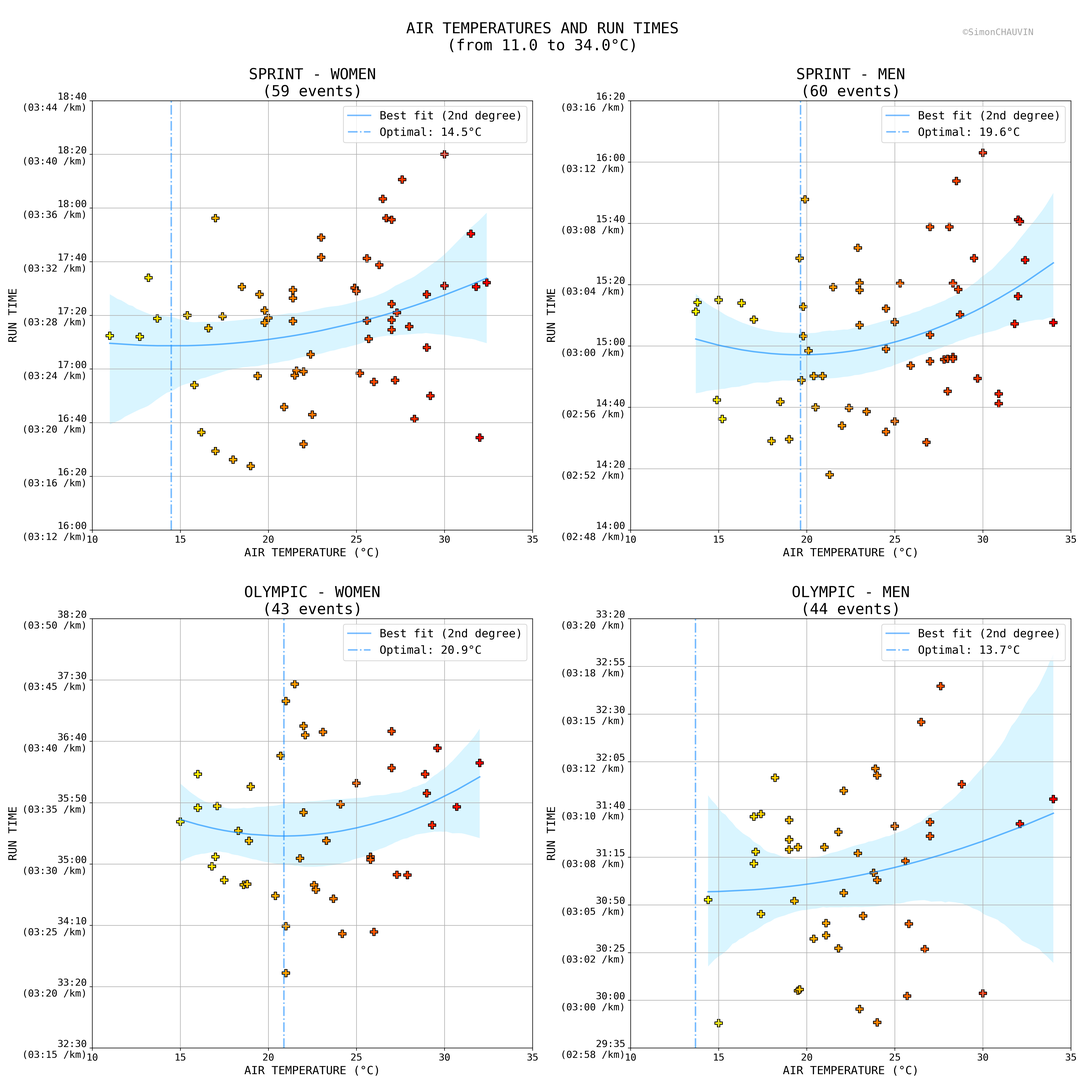
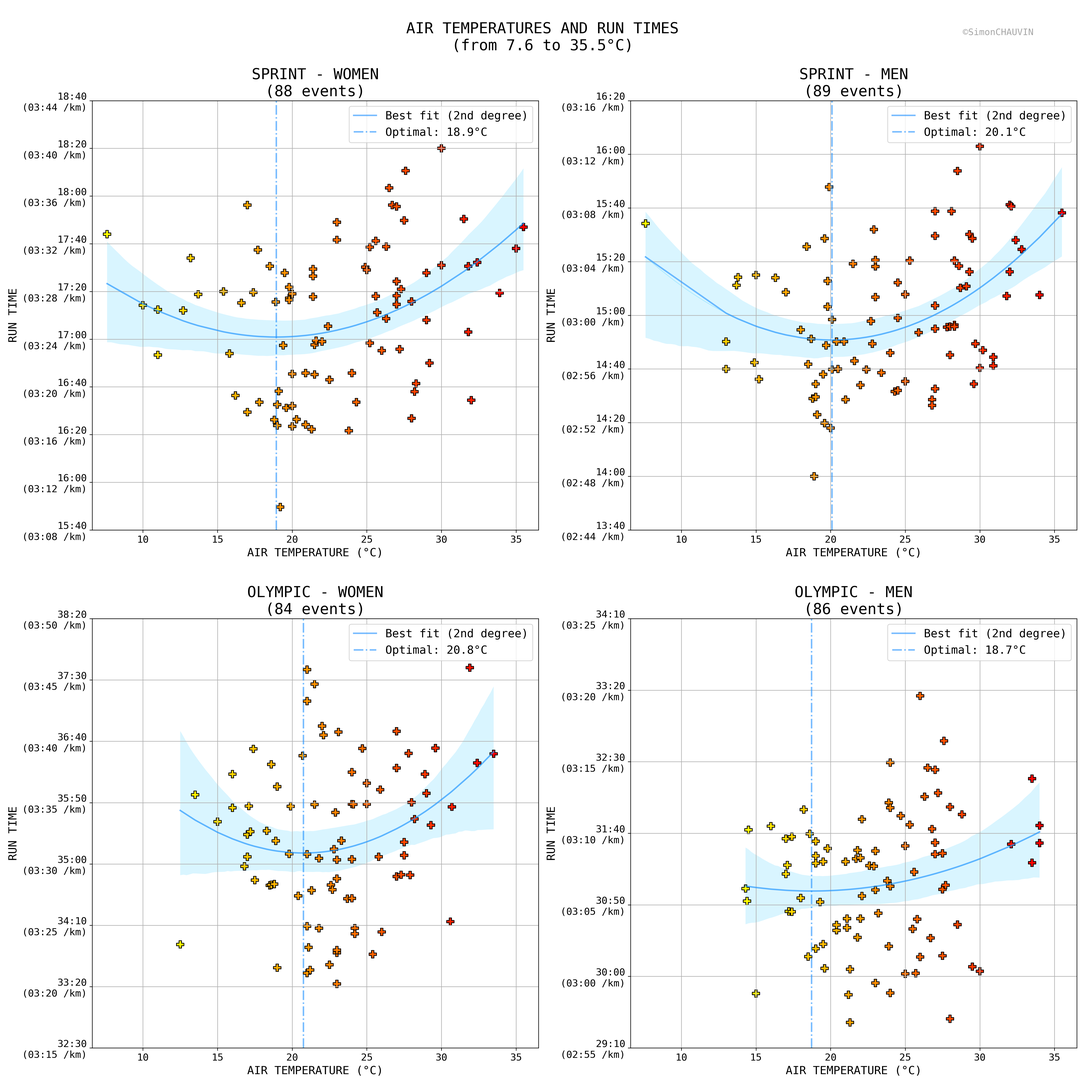
update temperatures

diff --git a/scripts/main_events.py b/scripts/main_events.py
@@ -9,7 +9,7 @@ import seaborn as sns
 from scripts.utils_events import get_events_df
 
 from scripts.utils_events import drop_outliers, seconds_to_h_min_sec
-from utils import data_dir, json_load, res_dir, country_emojis, add_watermark, load_config
+from utils import data_dir, json_load, res_dir, country_emojis, add_watermark, load_config, ignored_dir
 
 
 def process_results_wetsuit(
@@ -1962,29 +1962,55 @@ def process_temperatures(df, distance_categories):
                 df2.sort_values([f"{measure}_temperature_{suffix}"], inplace=True)
 
                 if sport == "swim":
-                    if suffix == "w":
-                        # drop event_id 154591 for women because wetsuit at 21.3 deg
-                        df2 = df2[df2["event_id"] != 154591]
-                        # drop event_id 66637 for women because NO-WETSUIT at 17.4 deg
-                        df2 = df2[df2["event_id"] != 66637]
-                        # drop event_id 45141 for women because NO-WETSUIT at 19.2 deg
-                        df2 = df2[df2["event_id"] != 45141]
-                        # drop event_id 78729 for women because NO-WETSUIT at 19.2 deg
-                        df2 = df2[df2["event_id"] != 78729]
-                    elif suffix == "m":
-                        # drop event_id 66637 for men because NO-WETSUIT at 18.3 deg
-                        df2 = df2[df2["event_id"] != 66637]
-                        # drop event_id 45139 for men because wetsuit at 20.5 deg
-                        df2 = df2[df2["event_id"] != 45139]
-                        # drop event_id 78729 for men because NO-WETSUIT at 19.2 deg
-                        df2 = df2[df2["event_id"] != 78729]
-                        # drop event_id 45141 for men because NO-WETSUIT at 19.5 deg
-                        df2 = df2[df2["event_id"] != 45141]
-                        # drop event_id 54370 for men because NO-WETSUIT at 19.5 deg
-                        df2 = df2[df2["event_id"] != 54370]
+                    # ignore races with hot-wetsuit or cold-swimsuit
+                    conditions_logs_path = ignored_dir / "conditions_inconsistencies.json"
+                    conditions_logs = []
+                    if conditions_logs_path.exists():
+                        conditions_logs = json_load(conditions_logs_path)
 
-                    assert len(df2[(df2[f"wetsuit_{suffix}"]) & (df2[f"water_temperature_{suffix}"] >= 20.0)]) == 0
-                    assert len(df2[(~df2[f"wetsuit_{suffix}"]) & (df2[f"water_temperature_{suffix}"] < 20.0)]) == 0
+                    hot_wetsuit_filter = (df2[f"wetsuit_{suffix}"]) & (df2[f"water_temperature_{suffix}"] >= 20.0)
+                    df_hot_wetsuit = df2[hot_wetsuit_filter]
+                    cold_swimsuit_filter = (~df2[f"wetsuit_{suffix}"]) & (df2[f"water_temperature_{suffix}"] < 20.0)
+                    df_cold_swimsuit = df2[cold_swimsuit_filter]
+
+                    if len(df_hot_wetsuit) > 0:
+                        print(f"\n[{len(df_hot_wetsuit)}] WETSUIT ({distance_category}_{suffix}) despite WATER TEMPERATURE >= 20°C:")
+                        for row in df_hot_wetsuit.itertuples(index=False):
+                            water_temperature = row.water_temperature_w if suffix == "w" else row.water_temperature_m
+                            air_temperature = row.air_temperature_w if suffix == "w" else row.air_temperature_m
+                            msg = f"{row.event_id} ({suffix}): {water_temperature} °C (air at {air_temperature} °C) for {row.event_year} {row.event_venue} - {row.event_title}\n\t{row.event_listing}"
+                            print(f"\t{msg}")
+                            found = False
+                            for condition_log in conditions_logs:
+                                if condition_log["event_id"] == row.event_id:
+                                    if ((condition_log["prog_name"] == "Elite Men") and (suffix == "m")) or ((condition_log["prog_name"] == "Elite Women") and (suffix == "w")):
+                                        for issue in condition_log["issues"]:
+                                            if "wetsuit" in issue:
+                                                found = True
+                                                continue
+                            if not found:
+                                raise Exception(f"Hot wetsuit: not found in {conditions_logs_path.absolute()}:\n{msg}")
+
+                    if len(df_cold_swimsuit) > 0:
+                        print(f"\n[{len(df_cold_swimsuit)}] NO-WETSUIT ({distance_category}_{suffix}) despite WATER TEMPERATURE < 20°C:")
+                        for row in df_cold_swimsuit.itertuples(index=False):
+                            water_temperature = row.water_temperature_w if suffix == "w" else row.water_temperature_m
+                            air_temperature = row.air_temperature_w if suffix == "w" else row.air_temperature_m
+                            msg = f"{row.event_id} ({suffix}): {water_temperature} °C (air at {air_temperature} °C) for {row.event_year} {row.event_venue} - {row.event_title}\n\t{row.event_listing}"
+                            print(f"\t{msg}")
+                            found = False
+                            for condition_log in conditions_logs:
+                                if condition_log["event_id"] == row.event_id:
+                                    if ((condition_log["prog_name"] == "Elite Men") and (suffix == "m")) or ((condition_log["prog_name"] == "Elite Women") and (suffix == "w")):
+                                        for issue in condition_log["issues"]:
+                                            if "wetsuit" in issue:
+                                                found = True
+                                                continue
+                            if not found:
+                                raise Exception(f"Cold swimsuit: not found in {conditions_logs_path.absolute()}:\n{msg}")
+
+                    df2 = df2[~hot_wetsuit_filter]
+                    df2 = df2[~cold_swimsuit_filter]
 
                     colours = ["navy" if t >= 20 else "dodgerblue" for t in df2[f"{measure}_temperature_{suffix}"]]
                     kwargs = dict(

diff --git a/scripts/utils_events.py b/scripts/utils_events.py
@@ -20,7 +20,7 @@ from utils_itu import get_request, get_athlete_info
 
 tmp_results_file_path = ignored_dir / "tmp_results.csv"
 log_file_path = ignored_dir / "log.json"
-conditions_logs_path = ignored_dir / "conditions.json"
+conditions_logs_path = ignored_dir / "conditions_inconsistencies.json"
 conditions_logs_path.parent.mkdir(parents=True, exist_ok=True)
 
 # todo: is it the correct way to set the math fonts?
@@ -643,6 +643,18 @@ def extract_air_water_and_wetsuit(
     else:
         raise ValueError(f"{prog_data['prog_name']} not supported")
 
+    log_dict = {
+        "event_id": prog_data["event_id"],
+        "event_title": prog_data["event_title"],
+        "event_listing": prog_data["event_listing"],
+        "event_venue": prog_data["event_venue"],
+        "event_country_noc": prog_data["event_country_noc"],
+        "event_date": prog_data["event_date"],
+        "prog_id": prog_id,
+        "prog_name": prog_data["prog_name"],
+        "issues": []
+    }
+
     if conditions_logs_path.exists():
         conditions_logs = json_load(conditions_logs_path)
     else:
@@ -709,34 +721,23 @@ def extract_air_water_and_wetsuit(
     else:
         if len(set(air_temperatures)) != 1:
             print(f"different {air_temperatures = }")
-            conditions_logs.append({
-                "event_id": prog_data["event_id"],
-                "event_title": prog_data["event_title"],
-                "event_listing": prog_data["event_listing"],
-                "prog_id": prog_id,
-                "prog_name": prog_data["prog_name"],
-                "issue": f"{air_temperatures = }"
-            })
+            log_dict["issues"].append(f"{air_temperatures = }")
         air_temperature = air_temperatures[0]
+
 
     # resolve water temperature
     water_temperatures = [t for t in water_temperatures if t is not None]
     water_temperatures = [float(t) if isinstance(t, int) else t for t in water_temperatures]
     # isnumeric only works for int numbers
     water_temperatures = [float(t) if (isinstance(t, str) and t.replace(".", "", 1).isdigit()) else t for t in water_temperatures]
+
+
     if not water_temperatures:
         water_temperature = None
     else:
         if len(set(water_temperatures)) != 1:
             print(f"different {water_temperatures = }")
-            conditions_logs.append({
-                "event_id": prog_data["event_id"],
-                "event_title": prog_data["event_title"],
-                "event_listing": prog_data["event_listing"],
-                "prog_id": prog_id,
-                "prog_name": prog_data["prog_name"],
-                "issue": f"{water_temperatures = }"
-            })
+            log_dict["issues"].append(f"{water_temperatures = }")
         water_temperature = water_temperatures[0]
 
     # 5th method
@@ -759,14 +760,7 @@ def extract_air_water_and_wetsuit(
     else:
         if len(set(wetsuits)) != 1:
             print(f"different {wetsuits = }")
-            conditions_logs.append({
-                "event_id": prog_data["event_id"],
-                "event_title": prog_data["event_title"],
-                "event_listing": prog_data["event_listing"],
-                "prog_id": prog_id,
-                "prog_name": prog_data["prog_name"],
-                "issue": f"{wetsuits = } (retrieved {water_temperatures = }) (retrieved {air_temperatures = })"
-            })
+            log_dict["issues"].append(f"{wetsuits = } (retrieved {water_temperatures = }) (retrieved {air_temperatures = })")
         wetsuit = wetsuits[0]
 
     # 6th method
@@ -821,7 +815,13 @@ def extract_air_water_and_wetsuit(
                 }
                 json_dump(manual_labelled_wetsuit, manual_labelled_wetsuit_file)
 
-    json_dump(data=conditions_logs, p=conditions_logs_path)
+    log_dict["air_temperature"] = air_temperature
+    log_dict["water_temperature"] = water_temperature
+    log_dict["wetsuit"] = wetsuit
+
+    if len(log_dict["issues"]) > 0:
+        conditions_logs.append(log_dict)
+        json_dump(data=conditions_logs, p=conditions_logs_path)
 
     return air_temperature, water_temperature, wetsuit
 

diff --git a/README.md b/README.md
@@ -1198,22 +1198,22 @@ This section examines the recorded **water and air temperatures** and, inspired 
 |  *Recorded water and air temperatures.*   |
 
 The **temperature ranges** are **broad**:
-- :ocean: 80% of the recorded **water** temperatures are between **16.4 and 26.9 °C**.
-  - (**Mean: 21.5 °C**, SD: 3.9 °C, Min: 13.8 °C, Max: 31.0 °C)
+- :ocean: 80% of the recorded **water** temperatures are between **16.3 and 26.6 °C**.
+  - (**Mean: 21.4 °C**, SD: 3.8 °C, Min: 13.7 °C, Max: 31.8 °C)
 - :parasol_on_ground: 80% of the recorded **air** temperatures are between **17.0 and 29.6 °C**.
-  - (**Mean: 23.3 °C**, SD: 4.9 °C, Min: 11.0 °C, Max: 34.0 °C)
+  - (**Mean: 23.3 °C**, SD: 5.2 °C, Min: 7.6 °C, Max: 35.5 °C)
 
 ---
 
 **Several limitations** should be considered:
-- **Incomplete data:** Over half of the events lack temperature data, limiting the analysis's comprehensiveness.
+- **Incomplete data:** Many events lack temperature data, limiting the analysis's comprehensiveness.
 - **Pre-race measurements:** Measurements are typically **taken before the event**.
   - Depending on the **race timetable**, the **actual temperature** experienced during the race can be lower or higher than the **reported temperature**.
   - _"Water temperature must be taken **one hour** prior to the start of the event on competition day. It must be taken at the middle of the course and in two other areas on the swim course, at a **depth of 60 cm**."_
   - Air temperatures are likely **recorded before the race** as well, potentially leading to **significant temperature increases** by the time athletes begin the run.
   - For instance, the air temperature for the [men's race (10:45 am)](https://triathlon.org/results/result/paris_2024_olympic_games/655047) at Paris 2024 ( :fr: ) is reported at **23.9 °C**, while it was [closer to **28 °C** during the run](https://www.infoclimat.fr/observations-meteo/archives/31/juillet/2024/paris-montsouris/07156.html). 
 - **Humidity Impact:** While humidity could significantly affect running performance, its values are **not reported**.
-- Last but not least, **swim and run courses vary in distance**, and water conditions (e.g., waves, salinity) also differ between events, making **comparisons challenging**.
+- Last but not least, **swim and run courses vary in distance**, and water conditions (e.g., waves, salinity, current) also differ between events, making **comparisons challenging**.
 
 :warning: Given these **limitations**, especially the variation in course distances, **conclusions should be drawn with caution**.
 
@@ -1231,8 +1231,25 @@ The [women's race](https://triathlon.org/results/result/2021_world_triathlon_cup
   - For instance: Air at 15°C and water at 22°C -> The **water temperature is adjusted** at 18.5°C -> Wetsuit allowed.
   - It is possible that the 15°C threshold was higher in 2021, leading to the discrepancy.
 
-Swim appears **slightly faster in water temperatures below 20°C**, which is particularly visible in the two "olympic" sub-plots.
-- Likely because **wetsuits are permitted** at these lower temperatures.
+<details>
+  <summary>Click to expand - ❌ <strong>Anomalies ignored for this analysis.</strong></summary>
+
+|           SWIM CONDITIONS           |                                                                       EVENT                                                                       | WETSUIT | WATER TEMPERATURE (°C) :ocean: | AIR TEMPERATURE (°C) :thermometer: |
+|:-----------------------------------:|:-------------------------------------------------------------------------------------------------------------------------------------------------:|:-------:|:------------------------------:|:----------------------------------:|
+|    :fire: wetsuit & water>=20°C     |                      [2021 Haeundae (w)](https://www.triathlon.org/events/event/2021_world_triathlon_cup_haeundae) ( :kr: )                       |  True   |              21.3              |        15.4 ( :snowflake: )        |
+| :snowflake: no-wetsuit & water<20°C |                       [2014 Chicago (w)](https://www.triathlon.org/events/event/2014_itu_world_triathlon_chicago) ( :us: )                        |  False  |              19.2              |        33.5 ( :hot_face: )         |
+| :snowflake: no-wetsuit & water<20°C |                       [2014 Chicago (m)](https://www.triathlon.org/events/event/2014_itu_world_triathlon_chicago) ( :us: )                        |  False  |              19.2              |        33.5 ( :hot_face: )         |
+| :snowflake: no-wetsuit & water<20°C |                       [2013 Hamburg (w)](https://www.triathlon.org/events/event/2013_itu_world_triathlon_hamburg) ( :de: )                        |  False  |              17.4              |                23.8                |
+| :snowflake: no-wetsuit & water<20°C |                       [2013 Hamburg (m)](https://www.triathlon.org/events/event/2013_itu_world_triathlon_hamburg) ( :de: )                        |  False  |              18.3              |        29.6 ( :hot_face: )         |
+| :snowflake: no-wetsuit & water<20°C |                     [2012 Sydney (m)](https://www.triathlon.org/events/event/2012_itu_world_triathlon_sydney) ( :australia: )                     |  False  |              19.5              |                22.0                |
+| :snowflake: no-wetsuit & water<20°C |      [2011 London (w)](https://www.triathlon.org/events/event/2011_dextro_energy_triathlon_-_itu_world_championship_series_london) ( :gb: )       |  False  |               17               |                21.8                |
+| :snowflake: no-wetsuit & water<20°C |      [2011 London (m)](https://www.triathlon.org/events/event/2011_dextro_energy_triathlon_-_itu_world_championship_series_london) ( :gb: )       |  False  |              19.5              |                21.3                |
+|    :fire: wetsuit & water>=20°C     | [2011 Kitzbuhel (m)](https://www.triathlon.org/events/event/2011_dextro_energy_triathlon_-_itu_world_championship_series_kitzbuhel) ( :austria: ) |  True   |              20.5              |        16.0 ( :snowflake: )        |
+
+</details>
+
+Swim appears **slightly faster in water temperatures below 20°C**.
+- Likely because **wetsuits are allowed** at these lower temperatures.
 - Further research could analyse the **impact of temperature on swim performance** (see already [Gay et al, 2021](https://www.thieme-connect.com/products/ejournals/abstract/10.1055/a-1481-8473)), and try to determine the **optimal water temperature range** for races, with and without wetsuits.
 
 ---
@@ -1241,27 +1258,27 @@ Swim appears **slightly faster in water temperatures below 20°C**, which is par
 
 |  YEAR  |                                                               EVENT                                                               |  WATER TEMPERATURE  |  DISTANCE  |  EVENT CATEGORY  |
 |:------:|:---------------------------------------------------------------------------------------------------------------------------------:|:-------------------:|:----------:|:----------------:|
+|  2023  |             [Vina del Mar](https://www.triathlon.org/events/event/2023_world_triathlon_cup_vina_del_mar) ( :chile: )              |  13.7 :cold_face:   |   sprint   |    WORLD-CUP     |
 |  2017  |           [Cape Town](https://www.triathlon.org/events/event/2017_cape_town_itu_triathlon_world_cup) ( :south_africa: )           |  13.8 :cold_face:   |   sprint   |    WORLD-CUP     |
 |  2022  |             [Vina del Mar](https://www.triathlon.org/events/event/2022_world_triathlon_cup_vina_del_mar) ( :chile: )              |  14.3 :cold_face:   |   sprint   |    WORLD-CUP     |
-|  2018  |           [Cape Town](https://www.triathlon.org/events/event/2018_cape_town_itu_triathlon_world_cup) ( :south_africa: )           |  15.0 :cold_face:   |   sprint   |    WORLD-CUP     |
-|  2022  |                   [Bergen](https://www.triathlon.org/events/event/2022_world_triathlon_cup_bergen) ( :norway: )                   |  15.0 :cold_face:   |   sprint   |    WORLD-CUP     |
+|  2023  |         [Sunderland](https://www.triathlon.org/events/event/2023_world_triathlon_championship_series_sunderland) ( :gb: )         |  14.4 :cold_face:   |   sprint   |       WTCS       |
+|  2012  |        [Auckland](https://www.triathlon.org/events/event/2012_itu_world_triathlon_grand_final_auckland) ( :new_zealand: )         |  14.6 :cold_face:   |  olympic   |       WTCS       |
 |  2014  |                [Stockholm](https://www.triathlon.org/events/event/2014_itu_world_triathlon_stockholm) ( :sweden: )                |  15.0 :cold_face:   |   sprint   |       WTCS       |
-|  2015  |                     [London](https://www.triathlon.org/events/event/2015_itu_world_triathlon_london) ( :gb: )                     |  15.2 :cold_face:   |   sprint   |       WTCS       |
-|  2019  |                 [Cagliari](https://www.triathlon.org/events/event/2019_cagliari_itu_triathlon_world_cup) ( :it: )                 |  15.5 :cold_face:   |   sprint   |    WORLD-CUP     |
-|  2016  |             [Cape Town](https://www.triathlon.org/events/event/2016_itu_world_triathlon_cape_town) ( :south_africa: )             |  15.6 :cold_face:   |   sprint   |       WTCS       |
-|  2019  |           [Cape Town](https://www.triathlon.org/events/event/2019_cape_town_itu_triathlon_world_cup) ( :south_africa: )           |  16.0 :cold_face:   |   sprint   |    WORLD-CUP     |
-|  2017  |       [Rotterdam](https://www.triathlon.org/events/event/2017_itu_world_triathlon_grand_final_rotterdam) ( :netherlands: )        |  16.1 :cold_face:   |  olympic   |       WTCS       |
+|  2023  |                  [Tongyeong](https://www.triathlon.org/events/event/2023_world_triathlon_cup_tongyeong) ( :kr: )                  |  15.0 :cold_face:   |   sprint   |    WORLD-CUP     |
+|  2013  |                [Stockholm](https://www.triathlon.org/events/event/2013_itu_world_triathlon_stockholm) ( :sweden: )                |  15.0 :cold_face:   |  olympic   |       WTCS       |
+|  2022  |                   [Bergen](https://www.triathlon.org/events/event/2022_world_triathlon_cup_bergen) ( :norway: )                   |  15.0 :cold_face:   |   sprint   |    WORLD-CUP     |
+|  2018  |           [Cape Town](https://www.triathlon.org/events/event/2018_cape_town_itu_triathlon_world_cup) ( :south_africa: )           |  15.0 :cold_face:   |   sprint   |    WORLD-CUP     |
 |  ...   |                                                                ...                                                                |         ...         |    ...     |       ...        |
-|  2022  |                   [Valencia](https://www.triathlon.org/events/event/2022_world_triathlon_cup_valencia) ( :es: )                   |   27.8 :hot_face:   |   sprint   |    WORLD-CUP     |
-|  2021  |                         [Tokyo](https://www.triathlon.org/events/event/2020_tokyo_olympic_games) ( :jp: )                         |   28.9 :hot_face:   |  olympic   |      GAMES       |
-|  2016  |            [Cozumel](https://www.triathlon.org/events/event/2016_itu_world_triathlon_grand_final_cozumel) ( :mexico: )            |   29.0 :hot_face:   |  olympic   |       WTCS       |
-|  2017  |                 [Mérida](https://www.triathlon.org/events/event/2017_merida_itu_triathlon_world_cup) ( :mexico: )                 |   29.0 :hot_face:   |   sprint   |    WORLD-CUP     |
+|  2023  |                   [Valencia](https://www.triathlon.org/events/event/2023_world_triathlon_cup_valencia) ( :es: )                   |   29.0 :hot_face:   |  olympic   |    WORLD-CUP     |
+|  2017  |    [Mérida, Yucatán, Puerto Progreso](https://www.triathlon.org/events/event/2017_merida_itu_triathlon_world_cup) ( :mexico: )    |   29.0 :hot_face:   |   sprint   |    WORLD-CUP     |
 |  2018  |           [Mooloolaba](https://www.triathlon.org/events/event/2018_mooloolaba_itu_triathlon_world_cup) ( :australia: )            |   29.1 :hot_face:   |   sprint   |    WORLD-CUP     |
 |  2019  |               [Huatulco](https://www.triathlon.org/events/event/2019_huatulco_itu_triathlon_world_cup) ( :mexico: )               |   29.5 :hot_face:   |   sprint   |    WORLD-CUP     |
 |  2018  |               [Huatulco](https://www.triathlon.org/events/event/2018_huatulco_itu_triathlon_world_cup) ( :mexico: )               |   30.0 :hot_face:   |   sprint   |    WORLD-CUP     |
+|  2024  |                 [Huatulco](https://www.triathlon.org/events/event/2024_world_triathlon_cup_huatulco) ( :mexico: )                 |   30.0 :hot_face:   |   sprint   |    WORLD-CUP     |
 |  2021  |                 [Huatulco](https://www.triathlon.org/events/event/2021_huatulco_triathlon_world_cup) ( :mexico: )                 |   30.0 :hot_face:   |   sprint   |    WORLD-CUP     |
-|  2022  |                 [Huatulco](https://www.triathlon.org/events/event/2022_world_triathlon_cup_huatulco) ( :mexico: )                 |   31.0 :hot_face:   |   sprint   |    WORLD-CUP     |
 |  2021  | [Abu Dhabi](https://www.triathlon.org/events/event/2021_world_triathlon_championship_series_abu_dhabi) ( :united_arab_emirates: ) |   31.0 :hot_face:   |   sprint   |       WTCS       |
+|  2022  |                 [Huatulco](https://www.triathlon.org/events/event/2022_world_triathlon_cup_huatulco) ( :mexico: )                 |   31.0 :hot_face:   |   sprint   |    WORLD-CUP     |
+|  2023  |                 [Huatulco](https://www.triathlon.org/events/event/2023_world_triathlon_cup_huatulco) ( :mexico: )                 |   31.8 :hot_face:   |   sprint   |    WORLD-CUP     |
 
 ---
 
@@ -1279,29 +1296,29 @@ A **2nd degree fit** is applied on the scatter plot using [`seaborn.regplot`](ht
 
 :runner: Some cold and hot **runs**:
 
-|  YEAR  |                                                               EVENT                                                               |  AIR TEMPERATURE  |  DISTANCE  |  EVENT CATEGORY  |
-|:------:|:---------------------------------------------------------------------------------------------------------------------------------:|:-----------------:|:----------:|:----------------:|
-|  2022  |             [Vina del Mar](https://www.triathlon.org/events/event/2022_world_triathlon_cup_vina_del_mar) ( :chile: )              | 11.0 :cold_face:  |   sprint   |    WORLD-CUP     |
-|  2016  |                 [Edmonton](https://www.triathlon.org/events/event/2016_itu_world_triathlon_edmonton) ( :canada: )                 | 12.7 :cold_face:  |   sprint   |       WTCS       |
-|  2021  |                 [Tongyeong ](https://www.triathlon.org/events/event/2021_world_triathlon_cup_tongyeong) ( :kr: )                  | 13.2 :cold_face:  |   sprint   |    WORLD-CUP     |
-|  2018  |        [New Plymouth](https://www.triathlon.org/events/event/2018_new_plymouth_itu_triathlon_world_cup) ( :new_zealand: )         | 13.7 :cold_face:  |   sprint   |    WORLD-CUP     |
-|  2017  |       [Rotterdam](https://www.triathlon.org/events/event/2017_itu_world_triathlon_grand_final_rotterdam) ( :netherlands: )        | 14.4 :cold_face:  |  olympic   |       WTCS       |
-|  2020  |                    [Hamburg](https://www.triathlon.org/events/event/2020_itu_world_triathlon_hamburg) ( :de: )                    | 14.9 :cold_face:  |   sprint   |       WTCS       |
-|  2021  |                  [Lisbon](https://www.triathlon.org/events/event/2021_world_triathlon_cup_lisbon) ( :portugal: )                  | 15.0 :cold_face:  |  olympic   |    WORLD-CUP     |
-|  2018  |                 [Miyazaki](https://www.triathlon.org/events/event/2018_miyazaki_itu_triathlon_world_cup) ( :jp: )                 | 15.0 :cold_face:  |  olympic   |    WORLD-CUP     |
-|  2015  |                     [London](https://www.triathlon.org/events/event/2015_itu_world_triathlon_london) ( :gb: )                     | 15.2 :cold_face:  |   sprint   |       WTCS       |
-|  2021  |                   [Haeundae](https://www.triathlon.org/events/event/2021_world_triathlon_cup_haeundae) ( :kr: )                   | 15.4 :cold_face:  |   sprint   |    WORLD-CUP     |
-|  ...   |                                                                ...                                                                |        ...        |    ...     |       ...        |
-|  2019  |                 [Montreal](https://www.triathlon.org/events/event/2019_itu_world_triathlon_montreal) ( :canada: )                 |  30.9 :hot_face:  |   sprint   |       WTCS       |
-|  2019  |             [Antwerp MAS](https://www.triathlon.org/events/event/2019_antwerp_itu_triathlon_world_cup) ( :belgium: )              |  31.5 :hot_face:  |   sprint   |    WORLD-CUP     |
-|  2016  |           [Mooloolaba](https://www.triathlon.org/events/event/2016_mooloolaba_itu_triathlon_world_cup) ( :australia: )            |  31.8 :hot_face:  |   sprint   |    WORLD-CUP     |
-|  2017  |                 [Cagliari](https://www.triathlon.org/events/event/2017_cagliari_itu_triathlon_world_cup) ( :it: )                 |  32.0 :hot_face:  |   sprint   |    WORLD-CUP     |
-|  2022  |                  [Arzachena](https://www.triathlon.org/events/event/2022_world_triathlon_cup_arzachena) ( :it: )                  |  32.0 :hot_face:  |   sprint   |    WORLD-CUP     |
-|  2018  |               [Huatulco](https://www.triathlon.org/events/event/2018_huatulco_itu_triathlon_world_cup) ( :mexico: )               |  32.1 :hot_face:  |   sprint   |    WORLD-CUP     |
-|  2015  |  [Rio de Janeiro](https://www.triathlon.org/events/event/2015_rio_de_janeiro_itu_world_olympic_qualification_event) ( :brazil: )  |  32.1 :hot_face:  |  olympic   |      GAMES       |
-|  2014  |          [Tiszaujvaros](https://www.triathlon.org/events/event/2014_tiszaujvaros_itu_triathlon_world_cup) ( :hungary: )           |  32.4 :hot_face:  |   sprint   |    WORLD-CUP     |
-|  2021  | [Abu Dhabi](https://www.triathlon.org/events/event/2021_world_triathlon_championship_series_abu_dhabi) ( :united_arab_emirates: ) |  34.0 :hot_face:  |   sprint   |       WTCS       |
-|  2016  |            [Cozumel](https://www.triathlon.org/events/event/2016_itu_world_triathlon_grand_final_cozumel) ( :mexico: )            |  34.0 :hot_face:  |  olympic   |       WTCS       |
+|  YEAR  |                                                                  EVENT                                                                   |  AIR TEMPERATURE  |  DISTANCE  |  EVENT CATEGORY  |
+|:------:|:----------------------------------------------------------------------------------------------------------------------------------------:|:-----------------:|:----------:|:----------------:|
+|  2015  |                    [Edmonton](https://www.triathlon.org/events/event/2015_itu_world_triathlon_edmonton) ( :canada: )                     |  7.6 :cold_face:  |   sprint   |       WTCS       |
+|  2023  |                     [Tongyeong](https://www.triathlon.org/events/event/2023_world_triathlon_cup_tongyeong) ( :kr: )                      | 10.0 :cold_face:  |   sprint   |    WORLD-CUP     |
+|  2023  |                 [Vina del Mar](https://www.triathlon.org/events/event/2023_world_triathlon_cup_vina_del_mar) ( :chile: )                 | 11.0 :cold_face:  |   sprint   |    WORLD-CUP     |
+|  2022  |                 [Vina del Mar](https://www.triathlon.org/events/event/2022_world_triathlon_cup_vina_del_mar) ( :chile: )                 | 11.0 :cold_face:  |   sprint   |    WORLD-CUP     |
+|  2016  |                    [Edmonton](https://www.triathlon.org/events/event/2016_itu_world_triathlon_edmonton) ( :canada: )                     | 12.7 :cold_face:  |   sprint   |       WTCS       |
+|  2021  |                     [Tongyeong](https://www.triathlon.org/events/event/2021_world_triathlon_cup_tongyeong) ( :kr: )                      | 13.2 :cold_face:  |   sprint   |    WORLD-CUP     |
+|  2011  | [Kitzbuhel](https://www.triathlon.org/events/event/2011_dextro_energy_triathlon_-_itu_world_championship_series_kitzbuhel) ( :austria: ) | 13.5 :cold_face:  |  olympic   |       WTCS       |
+|  2018  |            [New Plymouth](https://www.triathlon.org/events/event/2018_new_plymouth_itu_triathlon_world_cup) ( :new_zealand: )            | 13.7 :cold_face:  |   sprint   |    WORLD-CUP     |
+|  2023  |                      [Miyazaki](https://www.triathlon.org/events/event/2023_world_triathlon_cup_miyazaki) ( :jp: )                       | 14.3 :cold_face:  |  olympic   |    WORLD-CUP     |
+|  2017  |           [Rotterdam](https://www.triathlon.org/events/event/2017_itu_world_triathlon_grand_final_rotterdam) ( :netherlands: )           | 14.4 :cold_face:  |  olympic   |       WTCS       |
+|  ...   |                                                                   ...                                                                    |        ...        |    ...     |       ...        |
+|  2015  |     [Rio de Janeiro](https://www.triathlon.org/events/event/2015_rio_de_janeiro_itu_world_olympic_qualification_event) ( :brazil: )      |  32.1 :hot_face:  |  olympic   |      GAMES       |
+|  2018  |                  [Huatulco](https://www.triathlon.org/events/event/2018_huatulco_itu_triathlon_world_cup) ( :mexico: )                   |  32.1 :hot_face:  |   sprint   |    WORLD-CUP     |
+|  2014  |              [Tiszaujvaros](https://www.triathlon.org/events/event/2014_tiszaujvaros_itu_triathlon_world_cup) ( :hungary: )              |  32.4 :hot_face:  |   sprint   |    WORLD-CUP     |
+|  2014  |                       [Chicago](https://www.triathlon.org/events/event/2014_itu_world_triathlon_chicago) ( :us: )                        |  33.5 :hot_face:  |  olympic   |       WTCS       |
+|  2024  |                    [Huatulco](https://www.triathlon.org/events/event/2024_world_triathlon_cup_huatulco) ( :mexico: )                     |  33.9 :hot_face:  |   sprint   |    WORLD-CUP     |
+|  2016  |               [Cozumel](https://www.triathlon.org/events/event/2016_itu_world_triathlon_grand_final_cozumel) ( :mexico: )                |  34.0 :hot_face:  |  olympic   |       WTCS       |
+|  2010  |      [Madrid](https://www.triathlon.org/events/event/2010_dextro_energy_triathlon_-_itu_world_championship_series_madrid) ( :es: )       |  34.0 :hot_face:  |  olympic   |       WTCS       |
+|  2021  |    [Abu Dhabi](https://www.triathlon.org/events/event/2021_world_triathlon_championship_series_abu_dhabi) ( :united_arab_emirates: )     |  34.0 :hot_face:  |   sprint   |       WTCS       |
+|  2023  |                    [Huatulco](https://www.triathlon.org/events/event/2023_world_triathlon_cup_huatulco) ( :mexico: )                     |  35.0 :hot_face:  |   sprint   |    WORLD-CUP     |
+|  2015  |              [Tiszaujvaros](https://www.triathlon.org/events/event/2015_tiszaujvaros_itu_triathlon_world_cup) ( :hungary: )              |  35.5 :hot_face:  |   sprint   |    WORLD-CUP     |
 
 ---
 
@@ -1338,7 +1355,7 @@ Countries having **hosted more than one** `world-series`, `world-cup` or `games-
 |        CHI ( :chile: )         |   2   |                                       Vina del Mar (2)                                        |
 |          TUR ( :tr: )          |   2   |                                          Alanya (2)                                           |
 
-It can be that some events are missing: these entries come from the data used for this report, after filtering and cleaning. 
+It can be that some events are missing: these entries come from the data used for this report, after filtering and cleaning.
 
 <details>
   <summary>Click to expand - <strong>Top host countries for world-series.</strong></summary>
@@ -2208,6 +2225,7 @@ Here are some simplified **key takeaways**:
 - :woman_cartwheeling: Women's races occasionally feature **wins by very large margins**.
 - :straight_ruler: The gaps between the **winner and the second** are, on average, **twice as large** in olympic formats compared to sprint formats, and **twice as large** for women compared to men.
 - :rocket: **Bike** and **run** times in WTCS olympic races have reached **all-time lows**.
+- :penguin: The wetsuit is allowed in **~1/3 of races**. More often for women (37%) than for men (32%).
 - :thermometer: Athletes must compete in a **variety of conditions**: Notably, 80% of the **recorded air temperatures** (lower estimates) fall between **17°C** and **30°C** and almost uniformly so.
 - :hot_face: **Heat** tends to **slow down** running pace.
 - :calendar: On average, athletes raced **10 times** (world cups and WTCS) in 2019 and 2023, compared to **6 times in 2009**.
